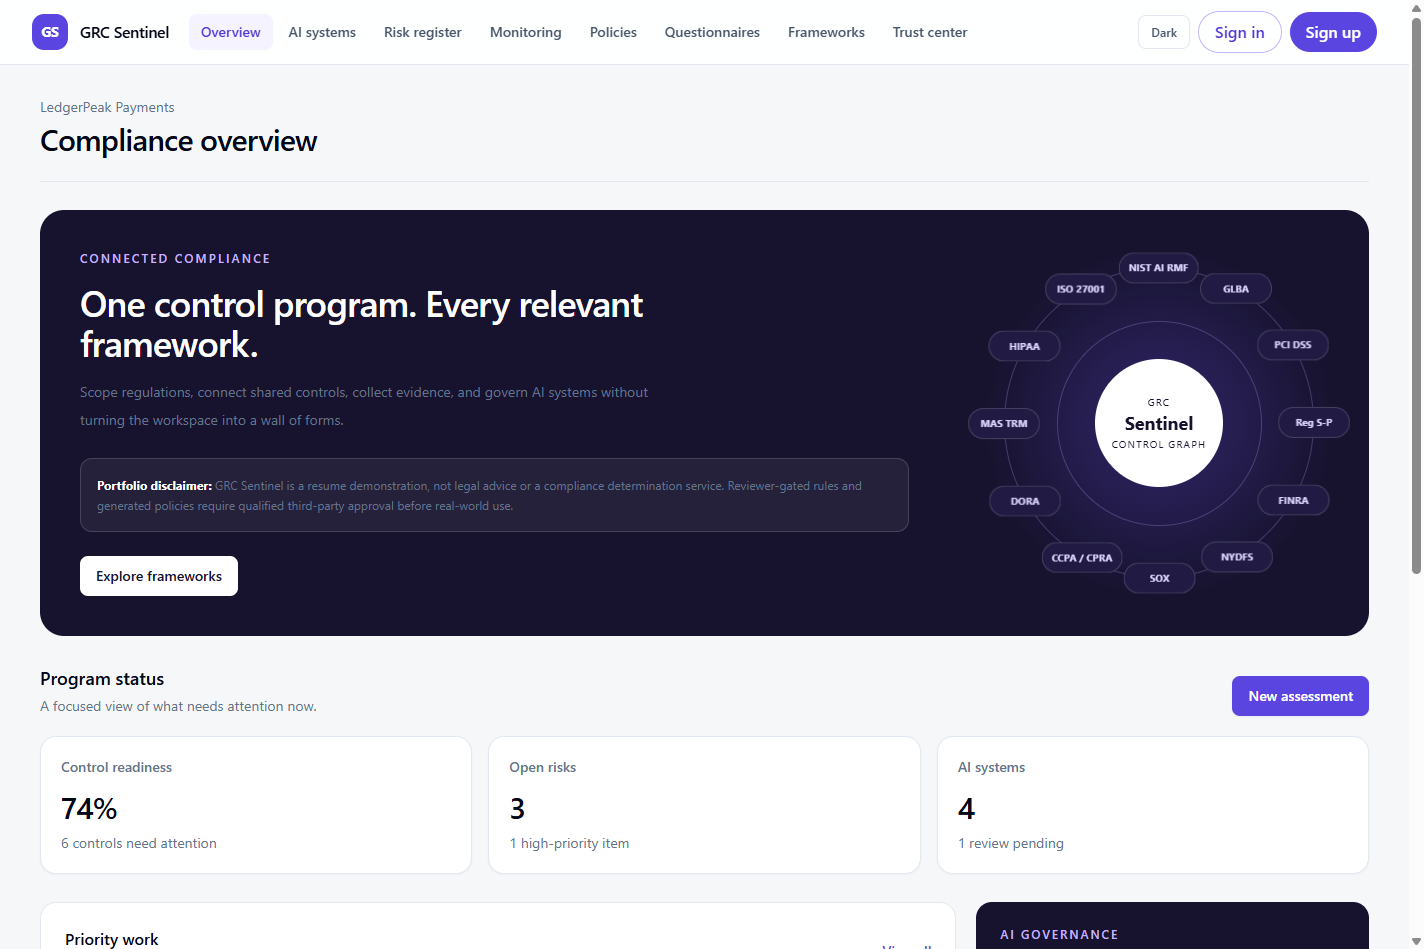
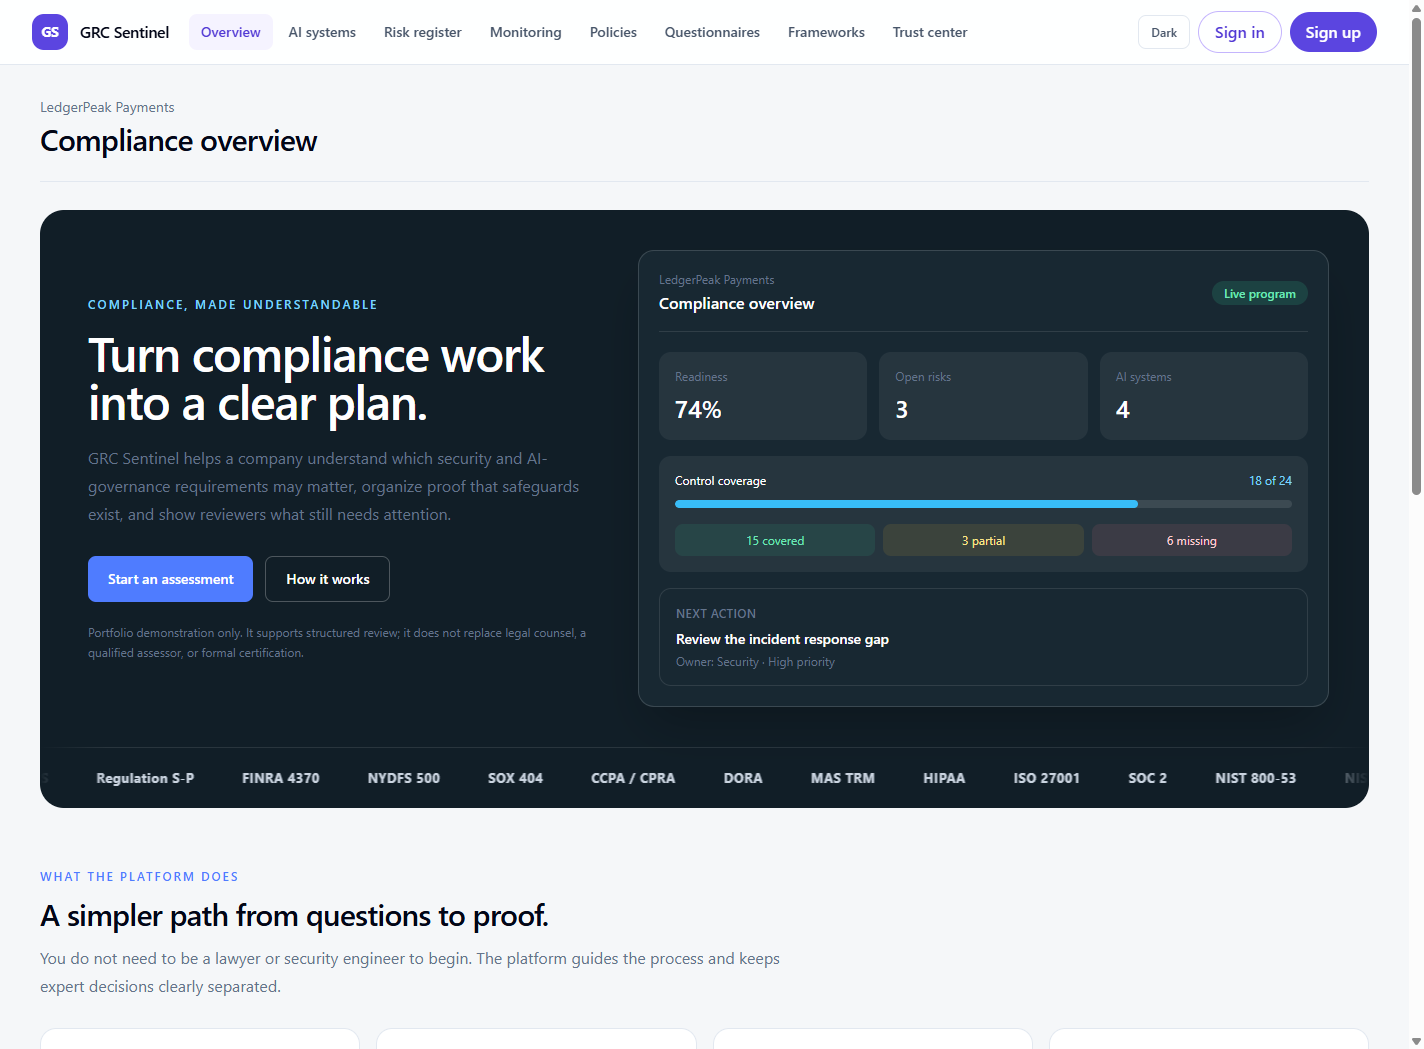
Revamp homepage around compliance outcomes

diff --git a/apps/web/src/app/page.tsx b/apps/web/src/app/page.tsx
@@ -16,36 +16,59 @@ const work = [
   ["Collect current access-review evidence", "Due this week", "/monitoring"],
 ] as const;
 
-const regimes = ["GLBA", "PCI DSS", "Reg S-P", "FINRA", "NYDFS", "SOX", "CCPA / CPRA", "DORA", "MAS TRM", "HIPAA", "ISO 27001", "NIST AI RMF"];
+const regimes = ["GLBA", "PCI DSS", "Regulation S-P", "FINRA 4370", "NYDFS 500", "SOX 404", "CCPA / CPRA", "DORA", "MAS TRM", "HIPAA", "ISO 27001", "SOC 2", "NIST 800-53", "NIST AI RMF", "ISO 42001"];
+
+const plainLanguageSteps = [
+  ["Describe the company", "Answer a short set of questions about the business, its customers, locations, and data."],
+  ["See what needs review", "The rules engine narrows the relevant regulations and clearly marks anything needing expert confirmation."],
+  ["Find the gaps", "Upload policies and connect evidence to see which safeguards are covered, incomplete, or missing."],
+  ["Share the result", "Track fixes, govern AI systems, and prepare a readable workspace for reviewers and auditors."],
+] as const;
 
 export default function Home() {
   const [assessmentOpen, setAssessmentOpen] = useState(false);
+  function startAssessment() {
+    setAssessmentOpen(true);
+    requestAnimationFrame(() => document.querySelector("#new-assessment")?.scrollIntoView({ behavior: "smooth" }));
+  }
+
   return (
     <main className="bg-[#f5f7f9] px-5 py-6 text-slate-950 sm:px-8 lg:px-10 lg:py-8">
       <header className="border-b border-slate-200 pb-6">
         <div><p className="text-sm text-slate-500">LedgerPeak Payments</p><h1 className="mt-1 text-2xl font-semibold tracking-tight sm:text-3xl">Compliance overview</h1></div>
       </header>
 
-      <section className="hero-panel my-7 grid overflow-hidden rounded-3xl bg-[#17132f] text-white lg:grid-cols-[minmax(0,1fr)_420px]" aria-labelledby="platform-heading">
-        <div className="flex flex-col justify-center p-7 sm:p-10">
-          <p className="text-xs font-semibold uppercase tracking-[0.18em] text-violet-300">Connected compliance</p>
-          <h2 id="platform-heading" className="mt-4 max-w-xl text-3xl font-semibold tracking-tight sm:text-4xl">One control program. Every relevant framework.</h2>
-          <p className="mt-4 max-w-xl text-sm leading-7 text-slate-300">Scope regulations, connect shared controls, collect evidence, and govern AI systems without turning the workspace into a wall of forms.</p>
-          <div className="mt-6 rounded-xl border border-white/15 bg-white/[0.06] p-4 text-xs leading-5 text-slate-300"><strong className="text-white">Portfolio disclaimer:</strong> GRC Sentinel is a resume demonstration, not legal advice or a compliance determination service. Reviewer-gated rules and generated policies require qualified third-party approval before real-world use.</div>
-          <Link href="/framework-drift" className="mt-6 w-fit rounded-lg bg-white px-4 py-2.5 text-sm font-semibold text-[#17132f]">Explore frameworks</Link>
+      <section className="hero-panel my-7 overflow-hidden rounded-3xl bg-[#111e27] text-white" aria-labelledby="platform-heading">
+        <div className="grid lg:grid-cols-[minmax(0,0.9fr)_minmax(480px,1.1fr)]">
+        <div className="flex flex-col justify-center p-7 sm:p-10 lg:p-12">
+          <p className="text-xs font-semibold uppercase tracking-[0.18em] text-sky-300">Compliance, made understandable</p>
+          <h2 id="platform-heading" className="mt-4 max-w-xl text-4xl font-semibold tracking-tight sm:text-5xl">Turn compliance work into a clear plan.</h2>
+          <p className="mt-5 max-w-xl text-base leading-7 text-slate-300">GRC Sentinel helps a company understand which security and AI-governance requirements may matter, organize proof that safeguards exist, and show reviewers what still needs attention.</p>
+          <div className="mt-7 flex flex-wrap gap-3"><button type="button" onClick={startAssessment} className="rounded-lg bg-[#4f7cff] px-5 py-3 text-sm font-semibold text-white hover:bg-[#3e69e8]">Start an assessment</button><a href="#how-it-works" className="rounded-lg border border-white/25 px-5 py-3 text-sm font-semibold text-white hover:bg-white/10">How it works</a></div>
+          <p className="mt-5 text-xs leading-5 text-slate-400">Portfolio demonstration only. It supports structured review; it does not replace legal counsel, a qualified assessor, or formal certification.</p>
         </div>
-        <div className="compliance-wheel" aria-label="Frameworks represented in GRC Sentinel">
-          <div className="compliance-wheel__core"><span>GRC</span><strong>Sentinel</strong><small>Control graph</small></div>
-          <div className="compliance-wheel__track" aria-hidden="true">
-            {regimes.map((regime, index) => <span key={regime} className="compliance-wheel__item" style={{ "--angle": `${index * 30}deg`, "--reverse-angle": `${index * -30}deg` } as React.CSSProperties}><span>{regime}</span></span>)}
-          </div>
+        <div className="m-5 rounded-2xl border border-white/15 bg-[#182832] p-5 shadow-2xl lg:m-10 lg:ml-0" aria-label="Product preview">
+          <div className="flex items-center justify-between border-b border-white/10 pb-4"><div><p className="text-xs text-slate-400">LedgerPeak Payments</p><h3 className="mt-1 font-semibold">Compliance overview</h3></div><span className="rounded-full bg-emerald-400/15 px-3 py-1 text-xs font-semibold text-emerald-300">Live program</span></div>
+          <div className="mt-5 grid gap-3 sm:grid-cols-3">{[["Readiness", "74%"], ["Open risks", "3"], ["AI systems", "4"]].map(([label, value]) => <div key={label} className="rounded-xl bg-white/[0.06] p-4"><p className="text-xs text-slate-400">{label}</p><p className="mt-2 text-2xl font-semibold">{value}</p></div>)}</div>
+          <div className="mt-4 rounded-xl bg-white/[0.06] p-4"><div className="flex justify-between text-xs"><span>Control coverage</span><span className="text-sky-300">18 of 24</span></div><div className="mt-3 h-2 overflow-hidden rounded-full bg-white/10"><div className="h-full w-3/4 rounded-full bg-sky-400" /></div><div className="mt-4 grid grid-cols-3 gap-2 text-center text-xs"><span className="rounded-lg bg-emerald-400/10 p-2 text-emerald-300">15 covered</span><span className="rounded-lg bg-amber-400/10 p-2 text-amber-200">3 partial</span><span className="rounded-lg bg-rose-400/10 p-2 text-rose-200">6 missing</span></div></div>
+          <div className="mt-4 rounded-xl border border-white/10 p-4"><p className="text-xs font-semibold uppercase tracking-wide text-slate-400">Next action</p><p className="mt-2 text-sm font-medium">Review the incident response gap</p><p className="mt-1 text-xs text-slate-400">Owner: Security · High priority</p></div>
         </div>
+        </div>
+        <div className="framework-marquee border-t border-white/10 py-5" aria-label="Frameworks represented in GRC Sentinel">
+          <div className="framework-marquee__track">{[0, 1].map((copy) => <div key={copy} className="framework-marquee__group" aria-hidden={copy === 1}>{regimes.map((regime) => <span key={`${copy}-${regime}`}>{regime}</span>)}</div>)}</div>
+        </div>
+      </section>
+
+      <section id="how-it-works" className="py-8" aria-labelledby="how-heading">
+        <div className="max-w-3xl"><p className="text-xs font-semibold uppercase tracking-[0.16em] text-[#4f7cff]">What the platform does</p><h2 id="how-heading" className="mt-3 text-3xl font-semibold tracking-tight">A simpler path from questions to proof.</h2><p className="mt-3 text-base leading-7 text-slate-500">You do not need to be a lawyer or security engineer to begin. The platform guides the process and keeps expert decisions clearly separated.</p></div>
+        <div className="mt-7 grid gap-4 md:grid-cols-2 xl:grid-cols-4">{plainLanguageSteps.map(([title, copy], index) => <article key={title} className="rounded-2xl border border-slate-200 bg-white p-5"><span className="grid size-8 place-items-center rounded-full bg-blue-50 text-sm font-bold text-[#4f7cff]">{index + 1}</span><h3 className="mt-5 font-semibold">{title}</h3><p className="mt-2 text-sm leading-6 text-slate-500">{copy}</p></article>)}</div>
+        <div className="mt-5 rounded-xl border border-amber-200 bg-amber-50 p-4 text-sm leading-6 text-amber-950"><strong>Where human review fits:</strong> the system can organize regulatory scope, policies, controls, and evidence, but reviewer-gated rules remain visibly marked until a qualified person approves them.</div>
       </section>
 
       <section className="pb-7" aria-labelledby="program-status">
         <div className="mb-5 flex flex-wrap items-end justify-between gap-3">
           <div><h2 id="program-status" className="text-lg font-semibold">Program status</h2><p className="mt-1 text-sm text-slate-500">A focused view of what needs attention now.</p></div>
-          <button type="button" onClick={() => { setAssessmentOpen(true); requestAnimationFrame(() => document.querySelector("#new-assessment")?.scrollIntoView({ behavior: "smooth" })); }} className="rounded-lg bg-[#5b45e0] px-4 py-2.5 text-sm font-semibold text-white shadow-sm hover:bg-[#4933c7]">New assessment</button>
+          <button type="button" onClick={startAssessment} className="rounded-lg bg-[#4f7cff] px-4 py-2.5 text-sm font-semibold text-white shadow-sm hover:bg-[#3e69e8]">New assessment</button>
         </div>
         <div className="grid gap-4 md:grid-cols-3">
           {metrics.map(([label, value, note]) => <article key={label} className="rounded-2xl border border-slate-200 bg-white p-5 shadow-[0_1px_2px_rgba(15,23,42,0.04)]"><p className="text-sm font-medium text-slate-500">{label}</p><p className="mt-3 text-3xl font-semibold tracking-tight">{value}</p><p className="mt-2 text-sm text-slate-500">{note}</p></article>)}

diff --git a/apps/web/src/app/globals.css b/apps/web/src/app/globals.css
@@ -66,51 +66,11 @@ body {
   border-color: #e2e8f0;
 }
 
-.compliance-wheel {
-  position: relative;
-  min-height: 390px;
-  display: grid;
-  place-items: center;
-  background: radial-gradient(circle, rgba(104, 78, 232, 0.32), transparent 58%);
-}
-
-.compliance-wheel::before,
-.compliance-wheel::after {
-  content: "";
-  position: absolute;
-  width: 310px;
-  height: 310px;
-  border: 1px solid rgba(196, 181, 253, 0.25);
-  border-radius: 999px;
-}
-
-.compliance-wheel::after {
-  width: 205px;
-  height: 205px;
-}
-
-.compliance-wheel__core {
-  z-index: 2;
-  display: grid;
-  width: 128px;
-  height: 128px;
-  place-content: center;
-  border: 1px solid rgba(255, 255, 255, 0.2);
-  border-radius: 999px;
-  background: #fff;
-  color: #17132f;
-  text-align: center;
-}
-
-.compliance-wheel__core span,
-.compliance-wheel__core small { font-size: 10px; text-transform: uppercase; letter-spacing: 0.12em; }
-.compliance-wheel__core strong { font-size: 18px; }
-.compliance-wheel__track { position: absolute; width: 310px; height: 310px; animation: orbit-spin 38s linear infinite; }
-.compliance-wheel__item { position: absolute; left: 50%; top: 50%; transform: rotate(var(--angle)) translateY(-155px); transform-origin: 0 0; }
-.compliance-wheel__item > span { display: block; min-width: 72px; transform: translate(-50%, -50%) rotate(var(--reverse-angle)); border: 1px solid rgba(255,255,255,.16); border-radius: 999px; background: #211b43; padding: 7px 9px; color: #ddd6fe; font-size: 10px; font-weight: 700; text-align: center; white-space: nowrap; animation: orbit-counter-spin 38s linear infinite; }
-
-@keyframes orbit-spin { to { transform: rotate(360deg); } }
-@keyframes orbit-counter-spin { to { transform: translate(-50%, -50%) rotate(calc(var(--reverse-angle) - 360deg)); } }
+.framework-marquee { overflow: hidden; mask-image: linear-gradient(to right, transparent, #000 5%, #000 95%, transparent); }
+.framework-marquee__track { display: flex; width: max-content; animation: framework-scroll 42s linear infinite; }
+.framework-marquee__group { display: flex; align-items: center; gap: 3rem; padding-right: 3rem; }
+.framework-marquee__group span { color: #cbd5e1; font-size: 13px; font-weight: 700; letter-spacing: .04em; white-space: nowrap; }
+@keyframes framework-scroll { to { transform: translateX(-50%); } }
 
 html[data-theme="dark"] body,
 html[data-theme="dark"] .app-shell { background: #0d0b18; color: #f8fafc; }
@@ -132,21 +92,13 @@ html[data-theme="dark"] .app-shell .text-slate-400,
 html[data-theme="dark"] .app-shell .text-slate-300 { color: #aaa5bd; }
 html[data-theme="dark"] .app-shell .bg-violet-50 { background: rgba(255,255,255,.1); }
 html[data-theme="dark"] .app-shell button.bg-\[\#5b45e0\],
-html[data-theme="dark"] .app-shell a.bg-\[\#5b45e0\] { background: #fff; color: #17132f; }
+html[data-theme="dark"] .app-shell a.bg-\[\#5b45e0\],
+html[data-theme="dark"] .app-shell button.bg-\[\#4f7cff\] { background: #fff; color: #17132f; }
 html[data-theme="dark"] .hero-panel,
 html[data-theme="dark"] .hero-panel h2 { color: #fff; }
-html[data-theme="dark"] .hero-panel .compliance-wheel__core { background: #fff; color: #17132f; }
-
-@media (max-width: 640px) {
-  .compliance-wheel { min-height: 340px; }
-  .compliance-wheel::before,
-  .compliance-wheel__track { width: 270px; height: 270px; }
-  .compliance-wheel__item { transform: rotate(var(--angle)) translateY(-135px); }
-}
 
 @media (prefers-reduced-motion: reduce) {
-  .compliance-wheel__track,
-  .compliance-wheel__item > span { animation-play-state: paused; }
+  .framework-marquee__track { animation-play-state: paused; }
 }
 
 .scope-form > fieldset:nth-of-type(n + 2):nth-of-type(-n + 10) {
